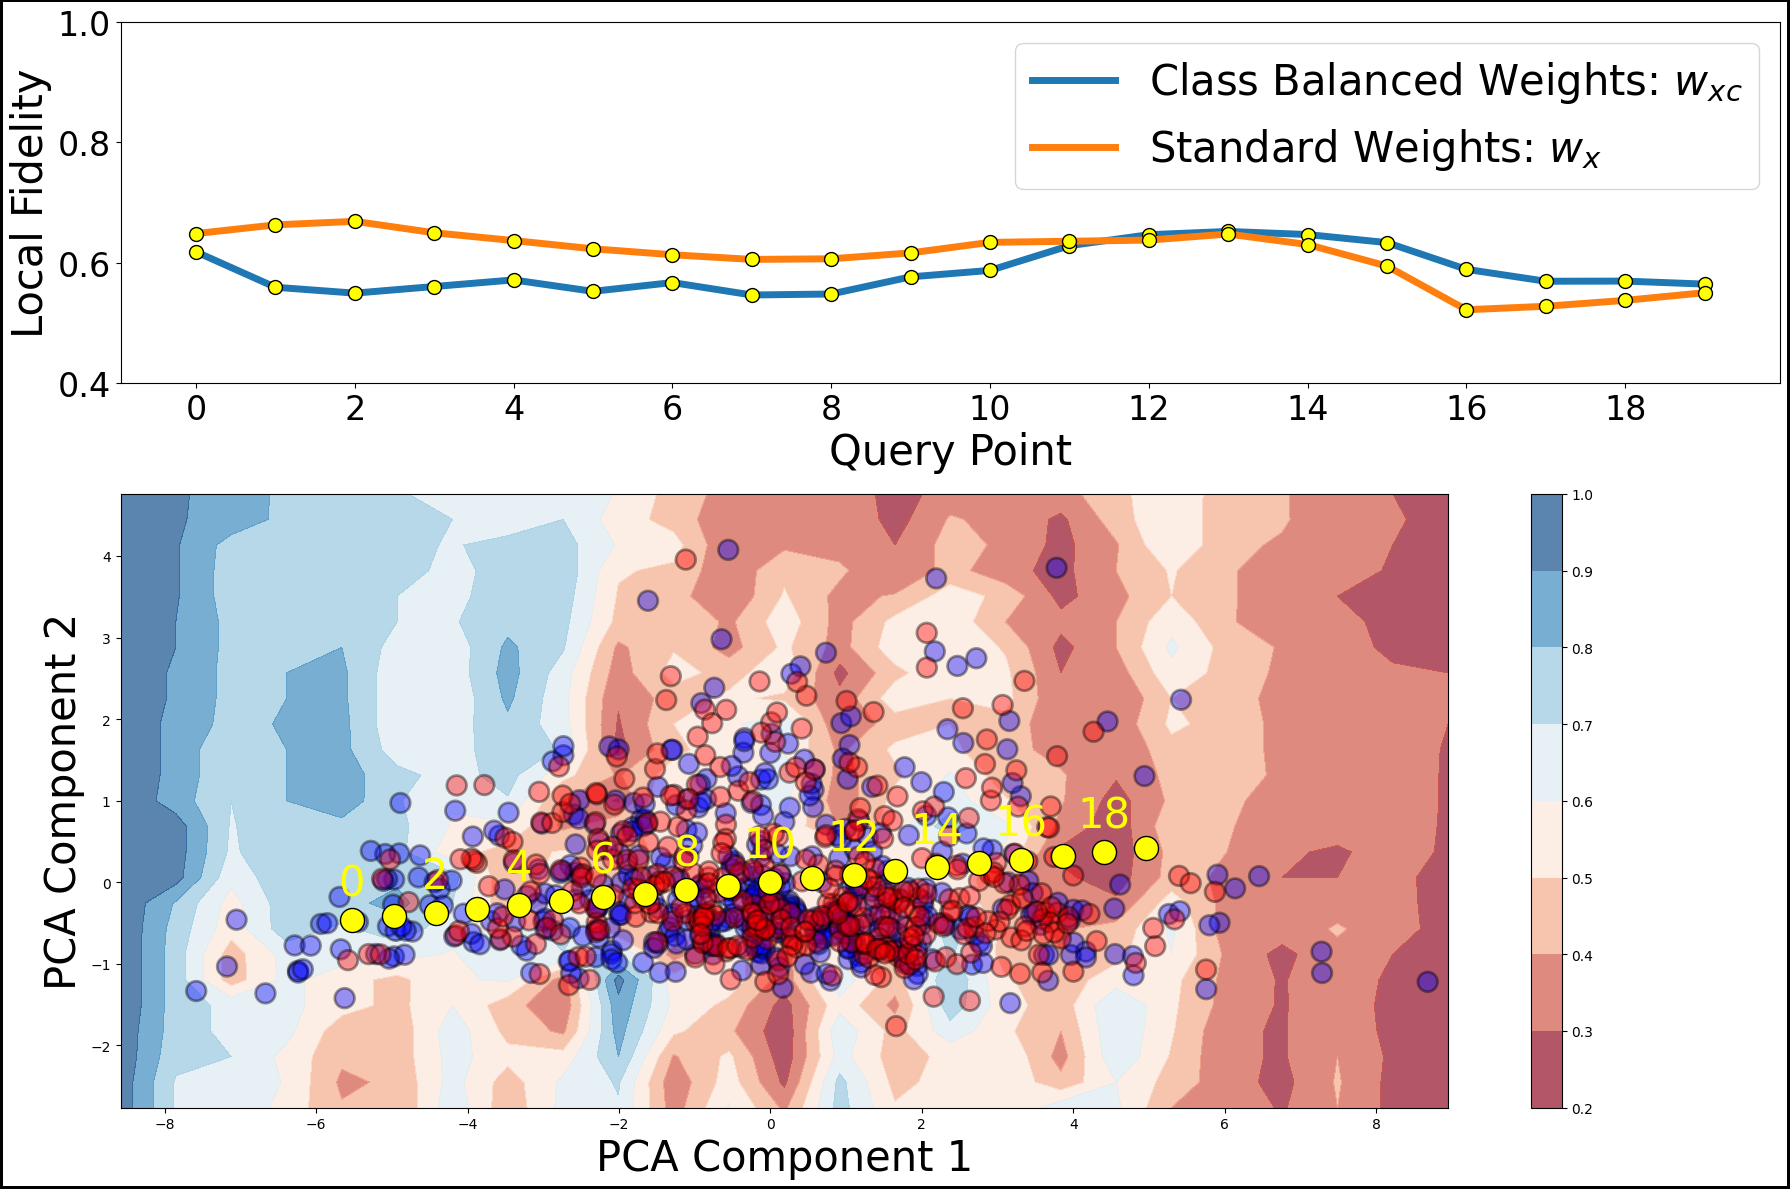
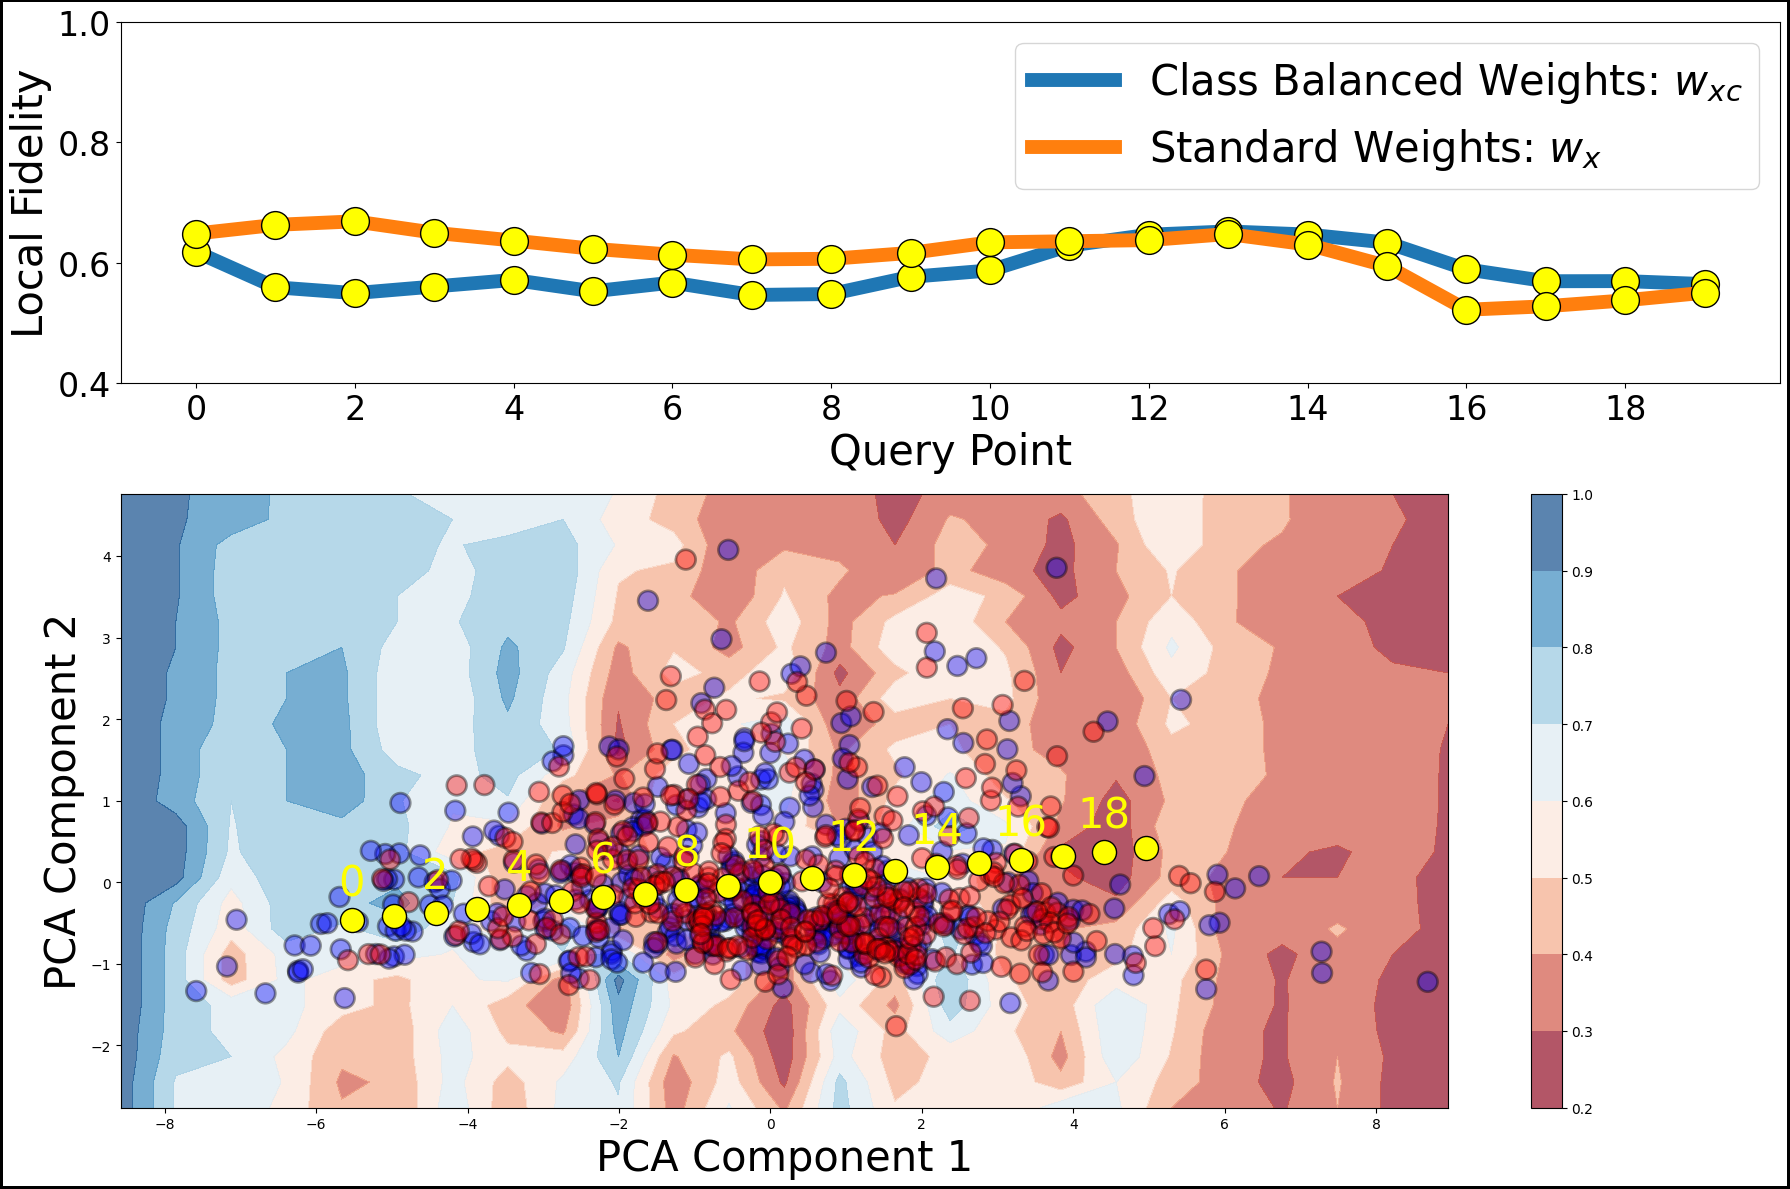
more plots shiz

Changed region(s): [[0.0922, 0.1556, 0.9832, 0.2801], [0.5838, 0.0622, 0.6145, 0.1245]]

diff --git a/clime/utils/plots.py b/clime/utils/plots.py
@@ -240,9 +240,9 @@ def plot_line_graphs_on_one_graph(data_dict, ylabel=None, ylims=[0, 1], ax=None,
         else:
             x = list(range(len(item['scores'])))
         ax.plot(x, item['scores'],  label=key,
-                linewidth=5)
+                linewidth=10)
         ax.plot(x, item['scores'], 'ko',  label=None,
-                markersize=10,
+                markersize=20,
                 markeredgecolor='black',
                 markerfacecolor='yellow')
         
